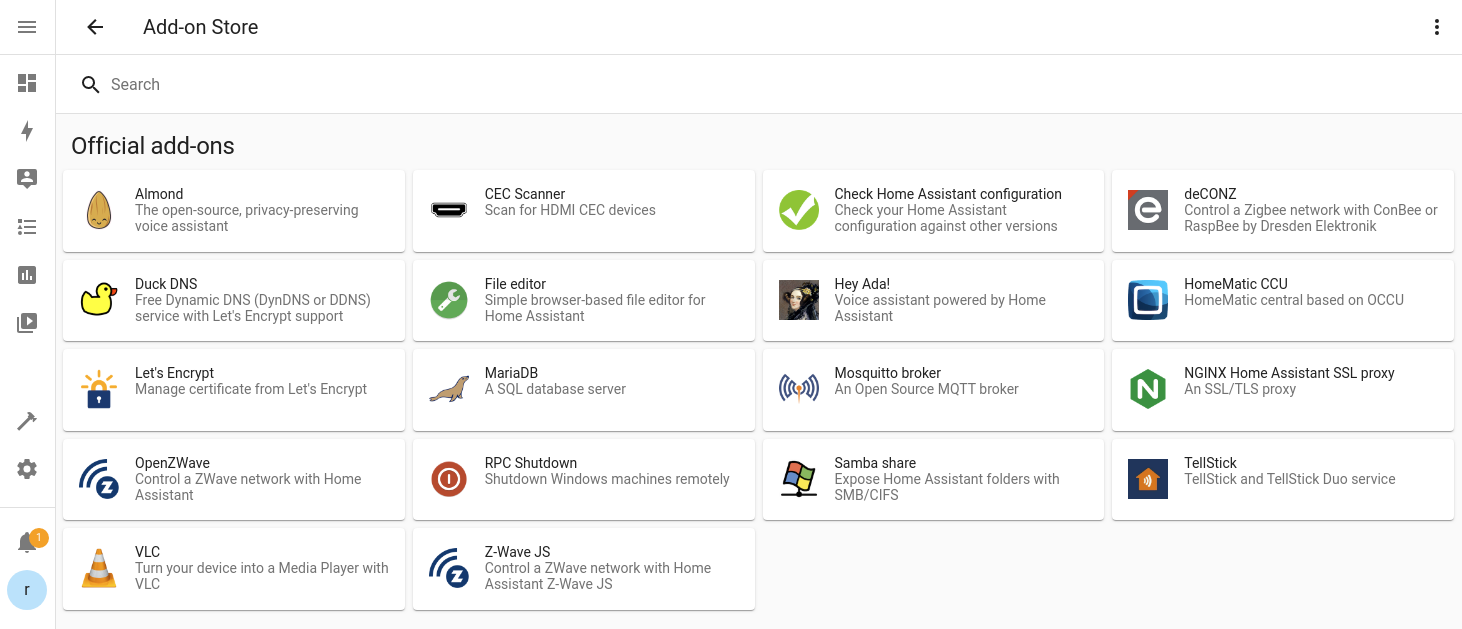
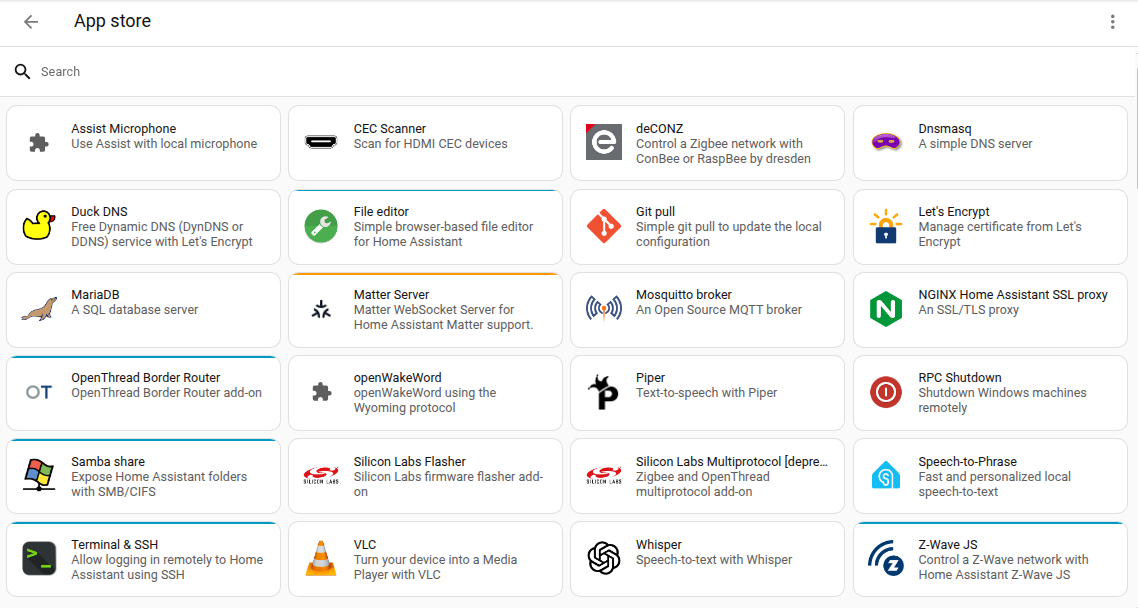
Update screenshot

diff --git a/source/addons/index.html b/source/addons/index.html
@@ -11,7 +11,7 @@ regenerate: false
 <p>
   This can be running an application that Home Assistant can integrate with
     (like an MQTT broker) or to share the configuration via Samba for easy editing
-    from other computers. Apps can be configured via the {% my supervisor title="**Settings** > **Apps**" %} panel in Home
+    from other computers. Apps can be configured via the {% my supervisor title="Settings > Apps" %} panel in Home
     Assistant.
 </p>
 
@@ -21,7 +21,7 @@ regenerate: false
 </p>
 
 <p>
-  To install apps, in Home Assistant, go to {% my supervisor title="**Settings** > **Apps**" %} , and select **Install app**. All apps, including their documentation, are available right from the store.
+  To install apps, in Home Assistant, go to {% my supervisor title="Settings > Apps" %} , and select <b>Install app</b>. All apps, including their documentation, are available right from the store.
     Some advanced apps will only be visible after you opt-in to "Advanced Mode" which can be changed on your user profile page.
     Click on an app you are interested in, to read the documentation or to install the app.
 </p>
